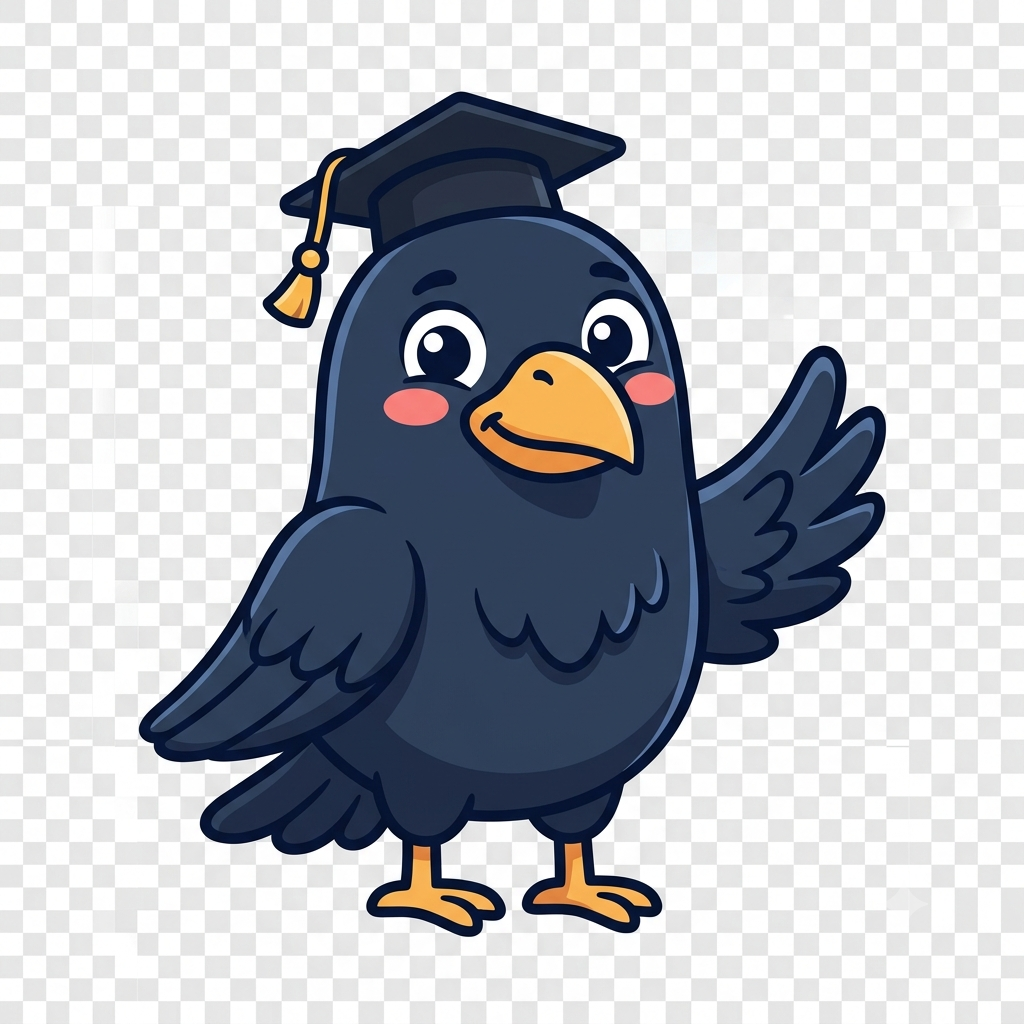
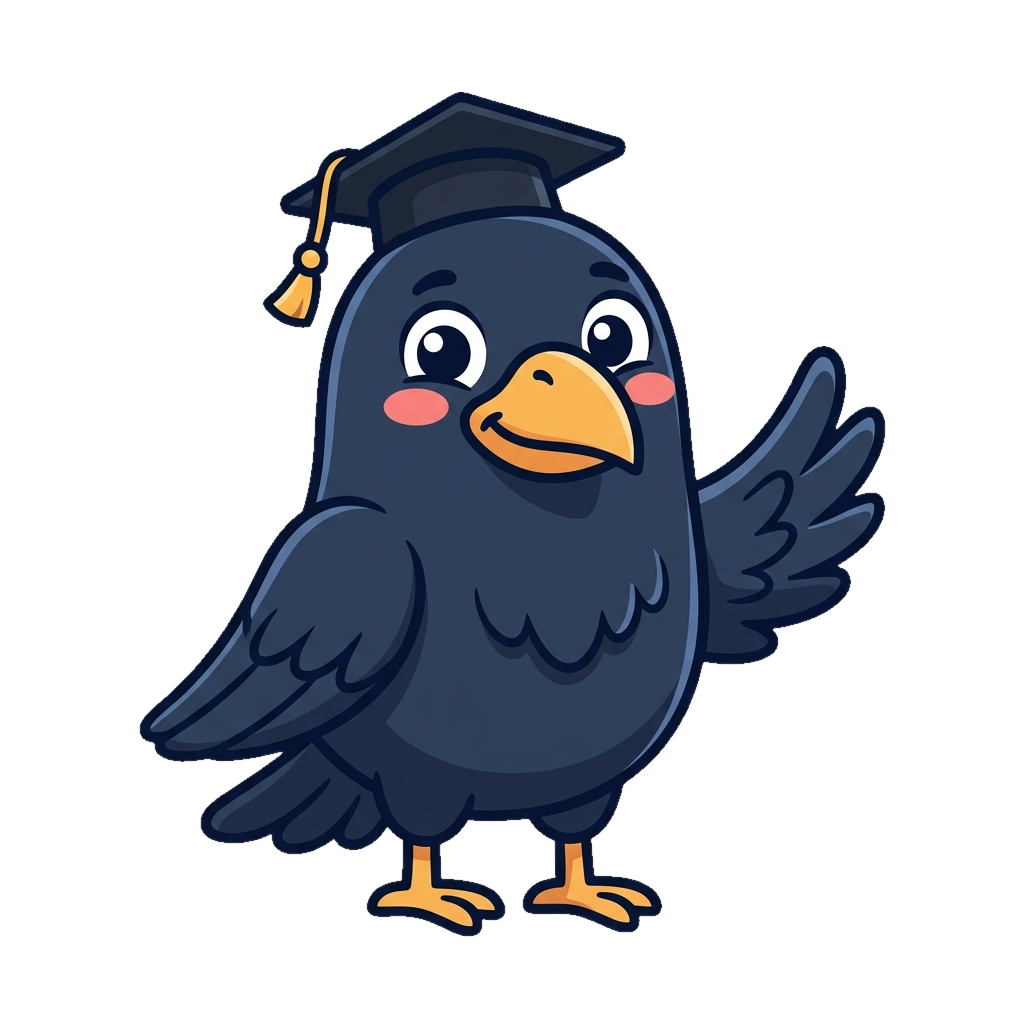
fix: transparent raven cutout + peeking welcome badge in hero
The pushed PNG was fully opaque — Gemini had baked the transparency
checkerboard in as real pixels. Edge flood-fill cut out the light
background (interior whites + gold tassel preserved), feathered the
edge to kill the halo. Fixes the header/footer logo's gray-square fringe.

Also add a circular gold porthole beside the hero headline: the raven's
head + waving wing fill the badge (feet cropped via overflow-hidden) to
welcome visitors.

Changed region(s): [[0.0, 0.0, 1.0, 1.0]]

diff --git a/frontend/src/components/LandingPage.tsx b/frontend/src/components/LandingPage.tsx
@@ -117,6 +117,19 @@ export default function LandingPage() {
             />
 
             <div className="rise-in">
+              {/* Raven peeking out of a porthole to welcome you. The image is
+                  scaled past the circle and pushed up so head + waving wing
+                  fill the badge while the feet crop away (overflow-hidden). */}
+              <div className="relative mb-6 inline-block h-24 w-24 -rotate-3 overflow-hidden rounded-full border-[3px] border-ink bg-flag-gold-soft shadow-[0_5px_0_var(--color-ink)]">
+                <Image
+                  src="/mascot/raven.png"
+                  alt="Spralingua raven waving hello"
+                  width={220}
+                  height={220}
+                  priority
+                  className="pointer-events-none absolute left-1/2 top-[-4%] w-[150%] max-w-none -translate-x-1/2 select-none"
+                />
+              </div>
               <h1 className="font-display text-[clamp(38px,6.5vw,68px)] font-black leading-[0.98] tracking-tight text-ink">
                 Learn a language by{" "}
                 <span className="goal-shimmer">speaking</span> it.
